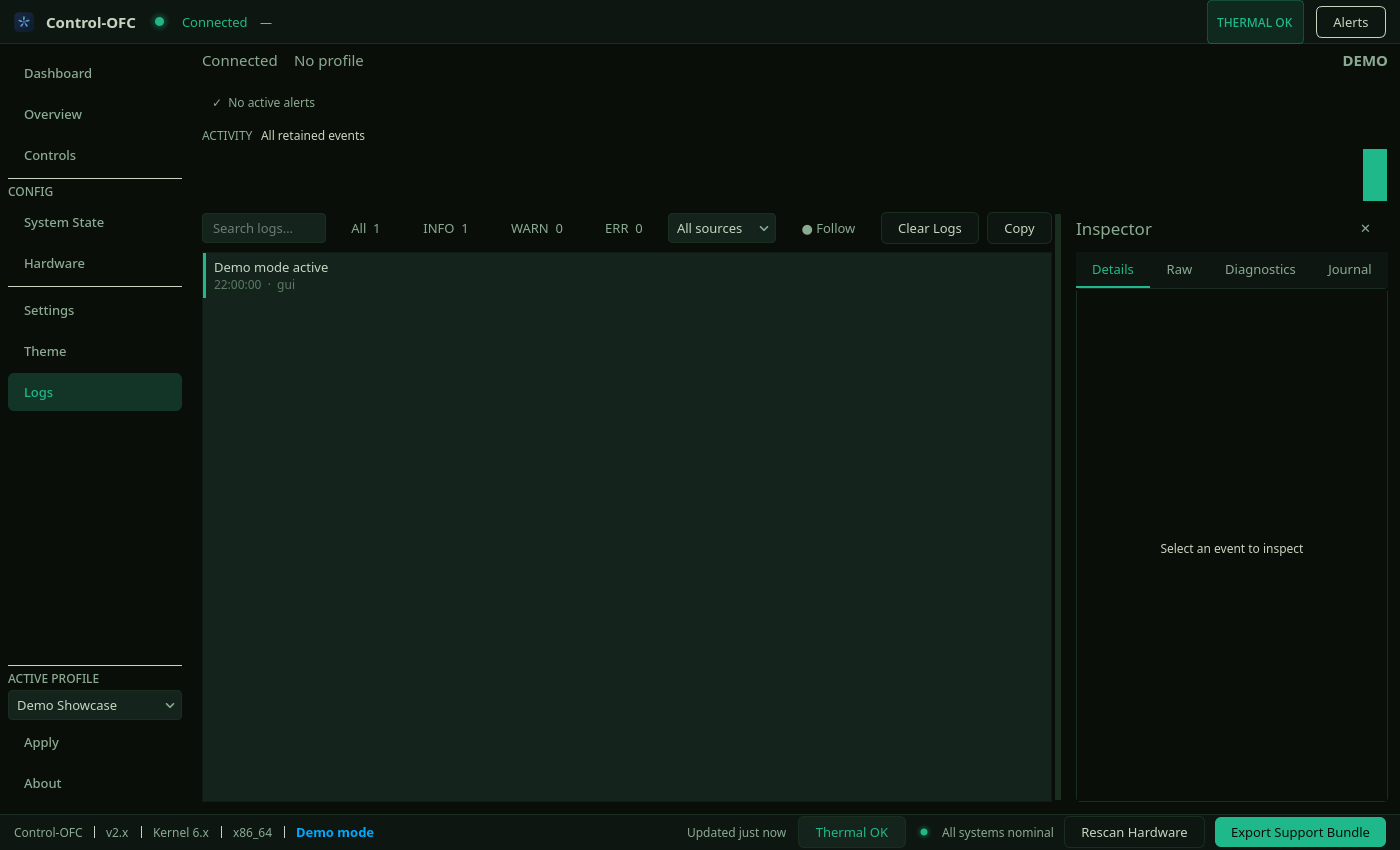
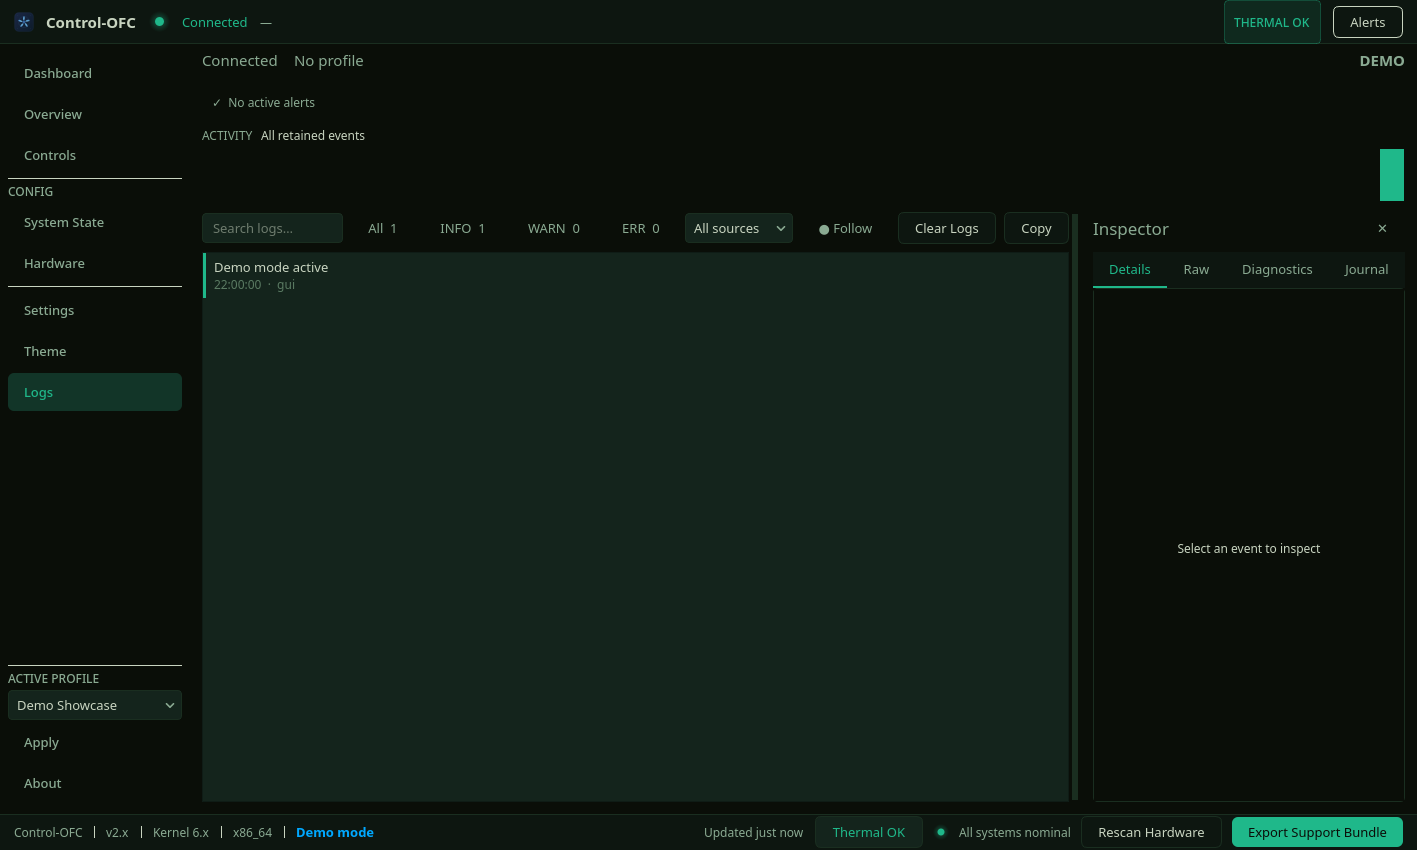
release: v2.53.1 — a run belongs to a header, and a window minimum is not a cap
README release line and cross-repo pairing (Phase 4 owns this line), plus the
three screenshots the UI change moved.

04_system_state, 05_hardware and 08_logs now capture at 1417px rather than the
script's requested 1400: the window's minimum width tracks its widest page now
that the 1200 literal is gone, so Qt clamps the requested size up. That is the
AUD2-b fix visible on screen — the Logs toolbar renders its full "Search logs…"
placeholder, "All sources", "Clear Logs" and "Copy", and all four inspector
tabs, none of which fitted before.

Also documents the consequence the recapture surfaced: because a QStackedLayout
lays out only the current page, an unvisited page reports an unpolished, smaller
minimum, so the window's minimum grows 1336 -> 1398 the first time System State
is opened, once per session. Shown to the user with measurements; ship-as-is
chosen over laying out all 8 pages at launch or re-pinning a literal. Recorded
as AUD2-b2.

Registered two more rows from the release-time retraction sweep: AUD2-c4 (four
daemon sites still state calibrate's restore absolutely, which DEC-295 narrowed
— a different feature, so out of DEC-315's scope) and, from the contract
reviewer, AUD2-c3.

Reviewed: trivial — release metadata only (README release line, CHANGELOG note, recaptured screenshots); no executable behaviour changed, and the version/CHANGELOG/PKGBUILD guards in the Standard gates check it mechanically
[…]

diff --git a/README.md b/README.md
@@ -1,6 +1,6 @@
 # Control-OFC GUI
 
-**Latest release:** v2.53.0 — 2026-09-02. Pairs with `control-ofc-daemon` ≥ v2.11.0 (v2.16.0 or newer for the Settings ▸ Daemon Configuration card, v2.17.0 for the Dashboard's fan-control-engine health banner, v2.18.0 for Rescan Hardware to also look for an OpenFan controller, v2.21.0 for the Controls page's "Not controlled" badge, v2.22.0 for the live output figure on each Controls card and the Dashboard's unresolved-control warning, v2.23.0 for removing a profile search directory, v2.24.0 for the thermal-forcing verify refusal shown as a soft notice, v2.24.2 for the subsystem age shown as data freshness rather than poll time, v2.25.0 for the daemon to also distrust the widened `nct67xx` `CPUTIN` set the GUI warns about and to quarantine an implausibly-low CPU reading, v2.26.0 for the thermal ladder's forced duties to act as floors over profile output rather than replacements for it and for the emergency trip point to be derived per machine from the CPU's own reported ceiling, v2.27.0 for fan telemetry to be reported only where it was actually measured, v2.28.0 for per-channel PWM header roles and pump-safe fan identify; all stand down gracefully on older daemons). The v2.26.0 and v2.27.0 behaviours need no GUI support — nothing on the wire changed. The trip point is reported in a field the GUI already renders verbatim, and `rpm` was already optional with a fan's absence already meaning "not currently readable". v2.50.0 consumes the v2.28.0 `control.header_roles` capability: where the daemon classifies a header as a pump, the Fan Wizard says the pump's speed will change rather than that it will stop — and against any older daemon it keeps the "stop" wording, because that is what an older daemon actually does. v2.51.0 goes further and *writes* that capability: Configure AIO asks which header the pump is connected to and records it via `POST /config/header-role`, which is the only way a motherboard-connected AIO can be set up at all — its pump hangs off the Super-I/O chip like any other fan, so nothing can infer it. The same release offers three pump strategies (Automatic, Fixed speed, Custom curve) in place of fixed presets only, and retracts the claim that a pump must run at a constant speed. Against a pre-2.28.0 daemon the role step is hidden and the flow behaves exactly as v2.50.0 did. v2.52.0 adds **Characterise PWM Response** on the System State page — a deeper diagnostic beside the existing quick "Test PWM Control", which holds a header at a series of duties and reports **command acceptance, PWM readback and physical fan response as three separate verdicts**. That separation is the feature: a pump whose firmware drives itself during startup reports a perfectly correct PWM readback while its speed ignores the command, and a single pass/fail would call that a broken fan. It needs daemon v2.29.0 or newer and is hidden entirely without it, so against an older daemon this release behaves exactly as v2.51.0 did. v2.53.0 rebuilds the **Logs** page as a List + Inspector workflow: an activity strip showing event volume over time (click a column to filter to that slice), a dense two-line event list, newest first, with repeated events collapsed into one row, and a tabbed inspector holding the event's detail, its raw stored record, and the Daemon Status / Controller / GPU probes and system journal that used to sit in a strip along the bottom. Events now carry structured fields where the emitter genuinely had them — an alert's component, an exception's type, a rescan's header count — so related events can be correlated on something real rather than a source tag. **This release needs nothing new from the daemon**: no API, schema or contract change, and your saved log filters carry over. See [`CHANGELOG.md`](CHANGELOG.md) for the full history.
+**Latest release:** v2.53.1 — 2026-09-02. Pairs with `control-ofc-daemon` ≥ v2.11.0 (v2.16.0 or newer for the Settings ▸ Daemon Configuration card, v2.17.0 for the Dashboard's fan-control-engine health banner, v2.18.0 for Rescan Hardware to also look for an OpenFan controller, v2.21.0 for the Controls page's "Not controlled" badge, v2.22.0 for the live output figure on each Controls card and the Dashboard's unresolved-control warning, v2.23.0 for removing a profile search directory, v2.24.0 for the thermal-forcing verify refusal shown as a soft notice, v2.24.2 for the subsystem age shown as data freshness rather than poll time, v2.25.0 for the daemon to also distrust the widened `nct67xx` `CPUTIN` set the GUI warns about and to quarantine an implausibly-low CPU reading, v2.26.0 for the thermal ladder's forced duties to act as floors over profile output rather than replacements for it and for the emergency trip point to be derived per machine from the CPU's own reported ceiling, v2.27.0 for fan telemetry to be reported only where it was actually measured, v2.28.0 for per-channel PWM header roles and pump-safe fan identify; all stand down gracefully on older daemons). The v2.26.0 and v2.27.0 behaviours need no GUI support — nothing on the wire changed. The trip point is reported in a field the GUI already renders verbatim, and `rpm` was already optional with a fan's absence already meaning "not currently readable". v2.50.0 consumes the v2.28.0 `control.header_roles` capability: where the daemon classifies a header as a pump, the Fan Wizard says the pump's speed will change rather than that it will stop — and against any older daemon it keeps the "stop" wording, because that is what an older daemon actually does. v2.51.0 goes further and *writes* that capability: Configure AIO asks which header the pump is connected to and records it via `POST /config/header-role`, which is the only way a motherboard-connected AIO can be set up at all — its pump hangs off the Super-I/O chip like any other fan, so nothing can infer it. The same release offers three pump strategies (Automatic, Fixed speed, Custom curve) in place of fixed presets only, and retracts the claim that a pump must run at a constant speed. Against a pre-2.28.0 daemon the role step is hidden and the flow behaves exactly as v2.50.0 did. v2.52.0 adds **Characterise PWM Response** on the System State page — a deeper diagnostic beside the existing quick "Test PWM Control", which holds a header at a series of duties and reports **command acceptance, PWM readback and physical fan response as three separate verdicts**. That separation is the feature: a pump whose firmware drives itself during startup reports a perfectly correct PWM readback while its speed ignores the command, and a single pass/fail would call that a broken fan. It needs daemon v2.29.0 or newer and is hidden entirely without it, so against an older daemon this release behaves exactly as v2.51.0 did. v2.53.0 rebuilds the **Logs** page as a List + Inspector workflow: an activity strip showing event volume over time (click a column to filter to that slice), a dense two-line event list, newest first, with repeated events collapsed into one row, and a tabbed inspector holding the event's detail, its raw stored record, and the Daemon Status / Controller / GPU probes and system journal that used to sit in a strip along the bottom. Events now carry structured fields where the emitter genuinely had them — an alert's component, an exception's type, a rescan's header count — so related events can be correlated on something real rather than a source tag. **This release needs nothing new from the daemon**: no API, schema or contract change, and your saved log filters carry over. v2.53.1 fixes three defects found by an audit of that work: Characterise PWM Response could render a *different* header's sweep as this header's result, because the daemon serves one run at a time and the dialog never checked whose it was; the app's minimum window size was set to a width no page has ever fitted in, which is what squeezed the Logs toolbar's search box down to "Sea…" (**the minimum window width therefore grows to roughly 1400px**); and a restore the daemon deliberately skipped was reported as "Restoring the original speed failed — re-activate your profile", which is precisely the wrong advice when thermal safety is what skipped it. The last of those reads the daemon's new `restore_outcome` field and so words each reason properly against v2.30.0 or newer, keeping the previous message against anything older. See [`CHANGELOG.md`](CHANGELOG.md) for the full history.
 
 Desktop fan control interface for Linux. Communicates with the [`control-ofc-daemon`](https://github.com/Plan-B-Development/control-ofc-daemon) service to monitor temperatures, manage fan speeds, and apply custom fan curves.
 

diff --git a/CHANGELOG.md b/CHANGELOG.md
@@ -31,6 +31,12 @@ Pairs with `control-ofc-daemon` >= v2.11.0 (unchanged floor). Three defect fixes
   message. (`AUD2-c`, DEC-315)
 
 ### Changed
+- **The application's minimum window width now tracks its widest page instead of a
+  literal.** A consequence worth knowing: because Qt lays out only the *current* page of
+  a stacked layout, that minimum rises the first time you open System State — measured
+  1336 → 1398 here, once per session, then stable. At the default 1400 window size there
+  is usually no visible change; it only moves the window if you had shrunk it below the
+  new figure. Content is never squeezed to fit, which is the point.
 - Narrowed the user-facing claim that the header's original speed is "restored on every
   exit path" to the two deliberate exceptions it always had, in `manual/`, the API
   contract, the client docstring and the dialog's own copy. Both exceptions leave the
